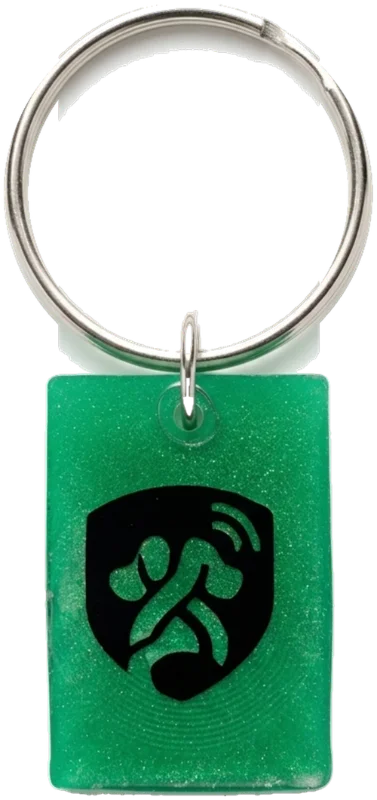
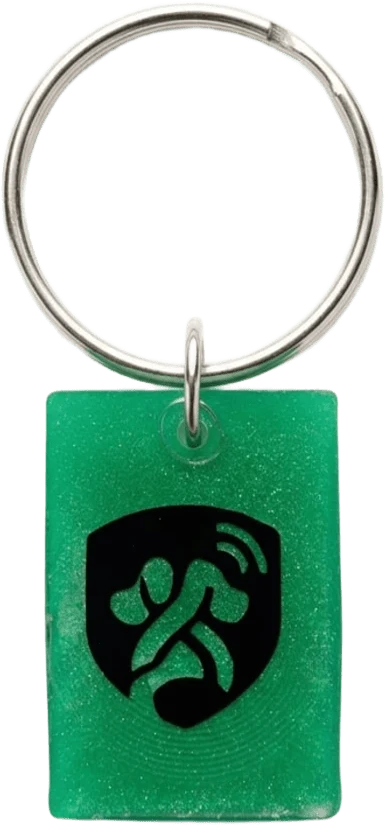
Placas: fotos nuevas mejor recortadas

Changed region(s): [[0.0, 0.0, 1.0, 1.0], [0.7878, 0.5312, 0.817, 0.5625]]

diff --git a/src/components/CarruselPlacas.jsx b/src/components/CarruselPlacas.jsx
@@ -20,8 +20,8 @@ const FOTOS = [
   {
     id: 'hueso-verde',
     src: '/placas/hueso-verde.webp',
-    ancho: 1000,
-    alto: 1129,
+    ancho: 520,
+    alto: 590,
     // El alt lo lee quien no ve la imagen, y también Google.
     alt: 'Placa de hueso en resina verde con glitter, con flores secas, el nombre '
        + 'Bebo grabado y el escudo de CURPitas, colgando de su argolla.',
@@ -30,8 +30,8 @@ const FOTOS = [
   {
     id: 'circulo-menta',
     src: '/placas/circulo-menta.webp',
-    ancho: 1000,
-    alto: 1993,
+    ancho: 275,
+    alto: 560,
     alt: 'Placa redonda en resina verde con glitter y el escudo de CURPitas, '
        + 'colgando de su argolla.',
     pie: 'Círculo verde glitter',
@@ -39,8 +39,8 @@ const FOTOS = [
   {
     id: 'cuadrado-verde',
     src: '/placas/cuadrado-verde.webp',
-    ancho: 1000,
-    alto: 1867,
+    ancho: 414,
+    alto: 785,
     alt: 'Placa cuadrada en resina verde con glitter y el escudo de CURPitas, '
        + 'colgando de su argolla.',
     pie: 'Cuadrada verde glitter',
@@ -48,8 +48,8 @@ const FOTOS = [
   {
     id: 'rect-verde',
     src: '/placas/rect-verde.webp',
-    ancho: 1000,
-    alto: 2120,
+    ancho: 385,
+    alto: 825,
     alt: 'Placa rectangular en resina verde con glitter y el escudo de CURPitas, '
        + 'colgando de su argolla.',
     pie: 'Rectangular verde glitter',
